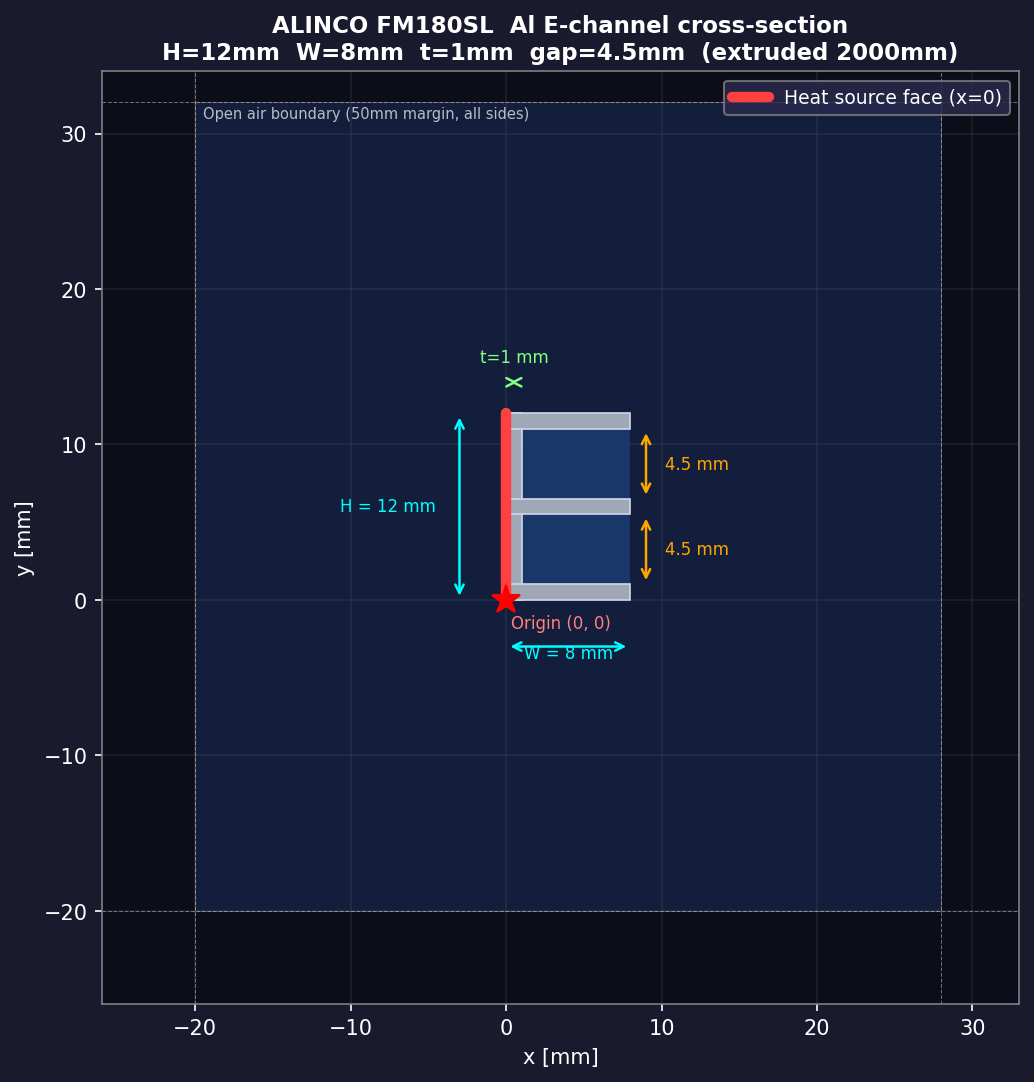
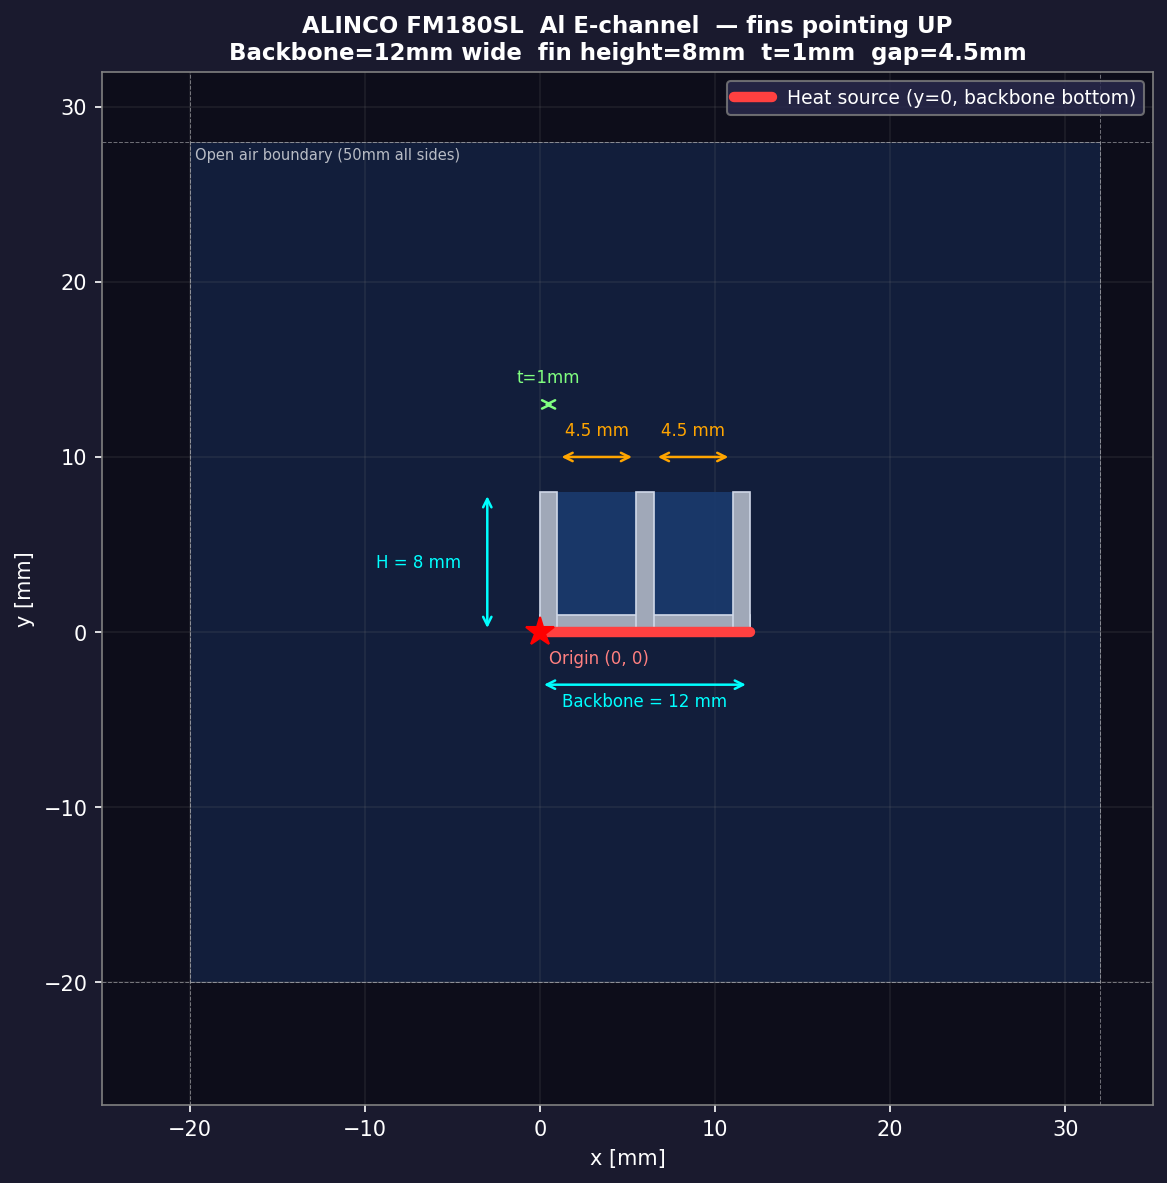
FM180SL モデルをフィン上向きに修正
- show_model.py: バックボーン下・フィン上向きに回転
- model_preview.png: 更新済みプレビュー

https://claude.ai/code/session_015u84WVv2Pr9D9MNrxa6Fmw

diff --git a/ALINCO-FM180SL-CHT/case/scripts/show_model.py b/ALINCO-FM180SL-CHT/case/scripts/show_model.py
@@ -1,7 +1,14 @@
 """
-ALINCO FM180SL E-channel cross-section preview.
-Dimensions: H=12mm, W=8mm, t=1mm, gap=4.5mm
-Heat source: backbone left face at x=0
+ALINCO FM180SL E-channel cross-section preview — fins pointing UP.
+Rotated so backbone is at bottom (y=0) and 3 fins extend upward.
+
+Original product dimensions:
+  total span (backbone width) = 12mm  → x: [0, 12mm]
+  fin height (incl backbone)  = 8mm   → y: [0, 8mm]
+  wall thickness               = 1mm
+  gap between fins             = 4.5mm
+
+Heat source: bottom face of backbone (y=0)
 Air space: 50mm on all sides
 """
 import matplotlib
@@ -11,50 +18,49 @@ import matplotlib.patches as patches
 import os
 
 # ── dimensions (mm) ──────────────────────────────────────────────────────────
-t    = 1.0    # wall thickness
-H    = 12.0   # total height
-W    = 8.0    # total width
-gap  = 4.5    # gap between flanges  = (H - 3*t) / 2 = 4.5 ✓
-L    = 20.0   # air margin on each side (shown); real domain = 50mm
+t      = 1.0    # wall thickness
+BW     = 12.0   # backbone total width  (original H=12mm)
+FH     = 8.0    # total height incl backbone  (original W=8mm)
+gap    = 4.5    # gap between fins  = (BW - 3*t) / 2 = 4.5 ✓
+L      = 20.0   # air margin shown (real domain = 50mm)
 
-# derived y-coordinates
-y_bot_top   = t               # 1.0  bottom flange top
-y_mid_bot   = t + gap         # 5.5  middle flange bottom
-y_mid_top   = t + gap + t     # 6.5  middle flange top
-y_top_bot   = t + gap + t + gap  # 11.0 top flange bottom
+# derived x-coordinates of fins
+x_left_fin   = 0.0              # left fin:   x=[0,   t]
+x_mid_fin    = t + gap          # middle fin: x=[5.5, 6.5]
+x_right_fin  = t + gap + t + gap  # right fin:  x=[11, 12]
 
 # ── figure ───────────────────────────────────────────────────────────────────
-fig, ax = plt.subplots(figsize=(7, 10))
+fig, ax = plt.subplots(figsize=(10, 8))
 fig.patch.set_facecolor('#1a1a2e')
 ax.set_facecolor('#0d0d1a')
 
-# Air background
-ax.add_patch(patches.Rectangle((-L, -L), W + 2*L, H + 2*L,
-    facecolor='#1a3a6e', edgecolor='gray', linewidth=0.5, alpha=0.4, zorder=1))
-
-# Air inside channel (inner gaps)
-for (y0, y1) in [(y_bot_top, y_mid_bot), (y_mid_top, y_top_bot)]:
-    ax.add_patch(patches.Rectangle((t, y0), W - t, y1 - y0,
-        facecolor='#1a3a6e', edgecolor=None, alpha=0.9, zorder=2))
-
-# ── aluminum ─────────────────────────────────────────────────────────────────
 al_color = '#a0a8b8'
 al_edge  = '#d0d8e8'
 
+# Air background
+ax.add_patch(patches.Rectangle((-L, -L), BW + 2*L, FH + 2*L,
+    facecolor='#1a3a6e', edgecolor='gray', linewidth=0.5, alpha=0.4, zorder=1))
+
+# Air gaps between fins (inside channel)
+for x0, x1 in [(t, x_mid_fin), (x_mid_fin + t, x_right_fin)]:
+    ax.add_patch(patches.Rectangle((x0, t), x1 - x0, FH - t,
+        facecolor='#1a3a6e', edgecolor=None, alpha=0.9, zorder=2))
+
+# ── aluminum ─────────────────────────────────────────────────────────────────
 def al_rect(x, y, w, h):
     ax.add_patch(patches.Rectangle((x, y), w, h,
         facecolor=al_color, edgecolor=al_edge, linewidth=0.8, zorder=3))
 
-al_rect(0, 0,           t, H)      # backbone (full height)
-al_rect(0, 0,           W, t)      # bottom flange
-al_rect(0, y_mid_bot,   W, t)      # middle flange
-al_rect(0, y_top_bot,   W, t)      # top flange
+al_rect(0, 0,        BW, t)          # backbone (full width, bottom)
+al_rect(0, 0,        t,  FH)         # left fin
+al_rect(x_mid_fin, 0, t, FH)         # middle fin
+al_rect(x_right_fin, 0, t, FH)       # right fin
 
-# ── heat source marker (backbone left face, x=0) ─────────────────────────────
-ax.plot([0, 0], [0, H], color='#ff4040', linewidth=5, zorder=6,
-        solid_capstyle='round', label='Heat source face (x=0)')
+# ── heat source marker (bottom face of backbone, y=0) ────────────────────────
+ax.plot([0, BW], [0, 0], color='#ff4040', linewidth=5, zorder=6,
+        solid_capstyle='round', label='Heat source (y=0, backbone bottom)')
 ax.plot(0, 0, 'r*', markersize=14, zorder=7)
-ax.text(0.3, -1.8, 'Origin (0, 0)', color='#ff8080', fontsize=8)
+ax.text(0.5, -1.8, 'Origin (0, 0)', color='#ff8080', fontsize=8)
 
 # ── dimension annotations ─────────────────────────────────────────────────────
 def arrow(x0, y0, x1, y1, color, label, lx, ly, ha='center', va='bottom'):
@@ -62,23 +68,23 @@ def arrow(x0, y0, x1, y1, color, label, lx, ly, ha='center', va='bottom'):
                 arrowprops=dict(arrowstyle='<->', color=color, lw=1.2))
     ax.text(lx, ly, label, color=color, fontsize=8, ha=ha, va=va)
 
-arrow(0, -3, W, -3,     'cyan',   f'W = {W:.0f} mm',  W/2, -4)
-arrow(-3, 0, -3, H,     'cyan',   f'H = {H:.0f} mm',  -4.5, H/2, ha='right', va='center')
-arrow(W+1, t, W+1, y_mid_bot, 'orange', f'{gap:.1f} mm', W+2.2, (t+y_mid_bot)/2, ha='left', va='center')
-arrow(W+1, y_mid_top, W+1, y_top_bot, 'orange', f'{gap:.1f} mm', W+2.2, (y_mid_top+y_top_bot)/2, ha='left', va='center')
-arrow(0, H+2, t, H+2,   '#80ff80', f't={t:.0f} mm',  t/2, H+3)
+arrow(0,   -3, BW,  -3,  'cyan',    f'Backbone = {BW:.0f} mm',  BW/2,  -4.5)
+arrow(-3,   0, -3,  FH,  'cyan',    f'H = {FH:.0f} mm',         -4.5,  FH/2, ha='right', va='center')
+arrow(t,  FH+2, x_mid_fin, FH+2, 'orange', f'{gap:.1f} mm',   (t+x_mid_fin)/2, FH+3)
+arrow(x_mid_fin+t, FH+2, x_right_fin, FH+2, 'orange', f'{gap:.1f} mm', (x_mid_fin+t+x_right_fin)/2, FH+3)
+arrow(0,  FH+5, t,  FH+5, '#80ff80', f't={t:.0f}mm', t/2, FH+6)
 
-# ── air domain boundary (actual 50mm, shown truncated) ───────────────────────
-ax.axhline(y=-L, color='white', linewidth=0.5, linestyle='--', alpha=0.4)
-ax.axhline(y=H+L, color='white', linewidth=0.5, linestyle='--', alpha=0.4)
-ax.axvline(x=-L, color='white', linewidth=0.5, linestyle='--', alpha=0.4)
-ax.axvline(x=W+L, color='white', linewidth=0.5, linestyle='--', alpha=0.4)
-ax.text(-L+0.5, H+L-1, 'Open air boundary (50mm margin, all sides)',
+# ── domain boundary markers ───────────────────────────────────────────────────
+for v in [-L, FH+L]:
+    ax.axhline(y=v, color='white', linewidth=0.5, linestyle='--', alpha=0.4)
+for v in [-L, BW+L]:
+    ax.axvline(x=v, color='white', linewidth=0.5, linestyle='--', alpha=0.4)
+ax.text(-L+0.3, FH+L-1, 'Open air boundary (50mm all sides)',
         color='white', fontsize=7, alpha=0.7)
 
-# ── axis settings ─────────────────────────────────────────────────────────────
-ax.set_xlim(-L - 6, W + L + 5)
-ax.set_ylim(-L - 6, H + L + 2)
+# ── axis ─────────────────────────────────────────────────────────────────────
+ax.set_xlim(-L - 5, BW + L + 3)
+ax.set_ylim(-L - 7, FH + L + 4)
 ax.set_aspect('equal')
 ax.set_xlabel('x [mm]', color='white')
 ax.set_ylabel('y [mm]', color='white')
@@ -86,12 +92,11 @@ ax.tick_params(colors='white')
 for s in ax.spines.values():
     s.set_edgecolor('gray')
 ax.grid(True, alpha=0.15, color='gray')
-
 ax.legend(loc='upper right', fontsize=9,
           facecolor='#2a2a4e', edgecolor='gray', labelcolor='white')
 ax.set_title(
-    'ALINCO FM180SL  Al E-channel cross-section\n'
-    'H=12mm  W=8mm  t=1mm  gap=4.5mm  (extruded 2000mm)',
+    'ALINCO FM180SL  Al E-channel  — fins pointing UP\n'
+    'Backbone=12mm wide  fin height=8mm  t=1mm  gap=4.5mm',
     color='white', fontsize=11, fontweight='bold')
 
 plt.tight_layout()
